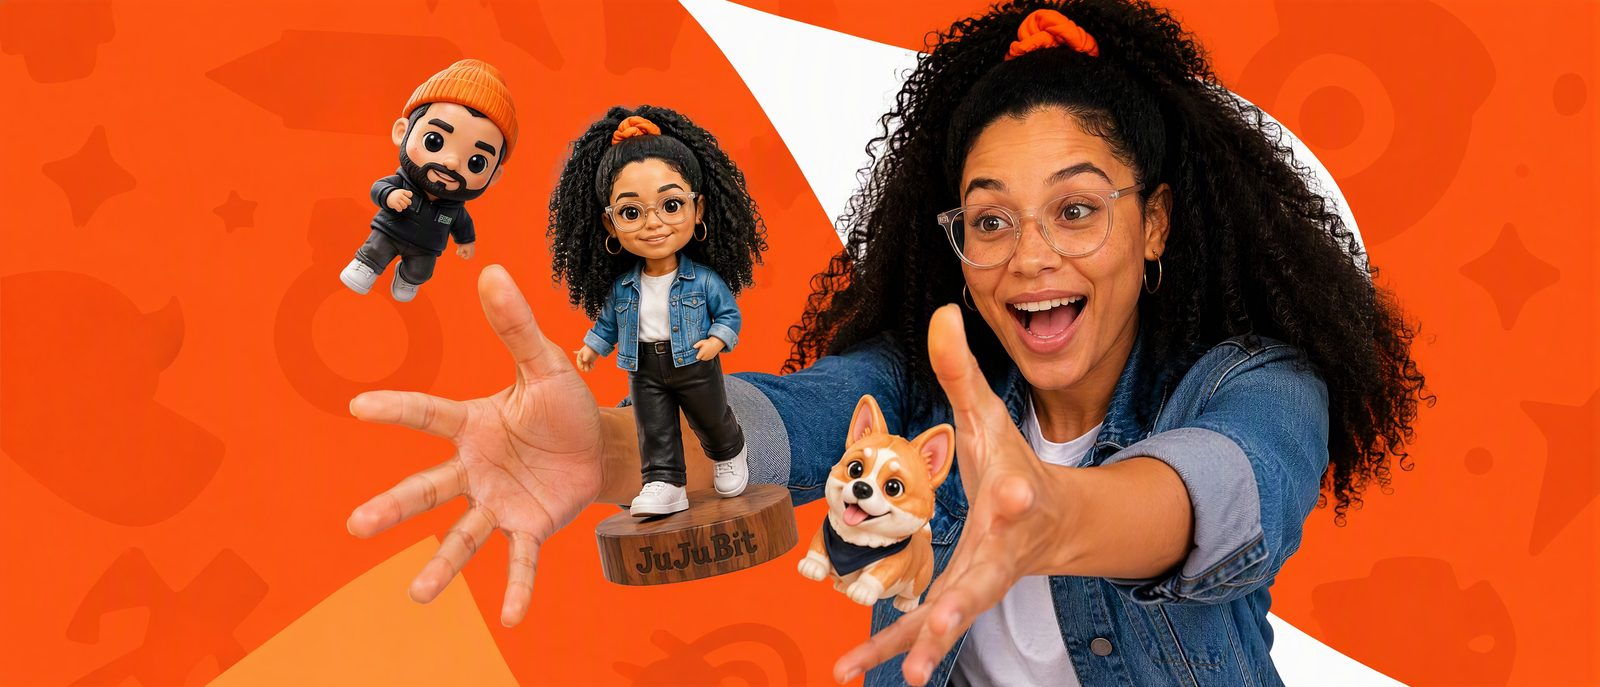
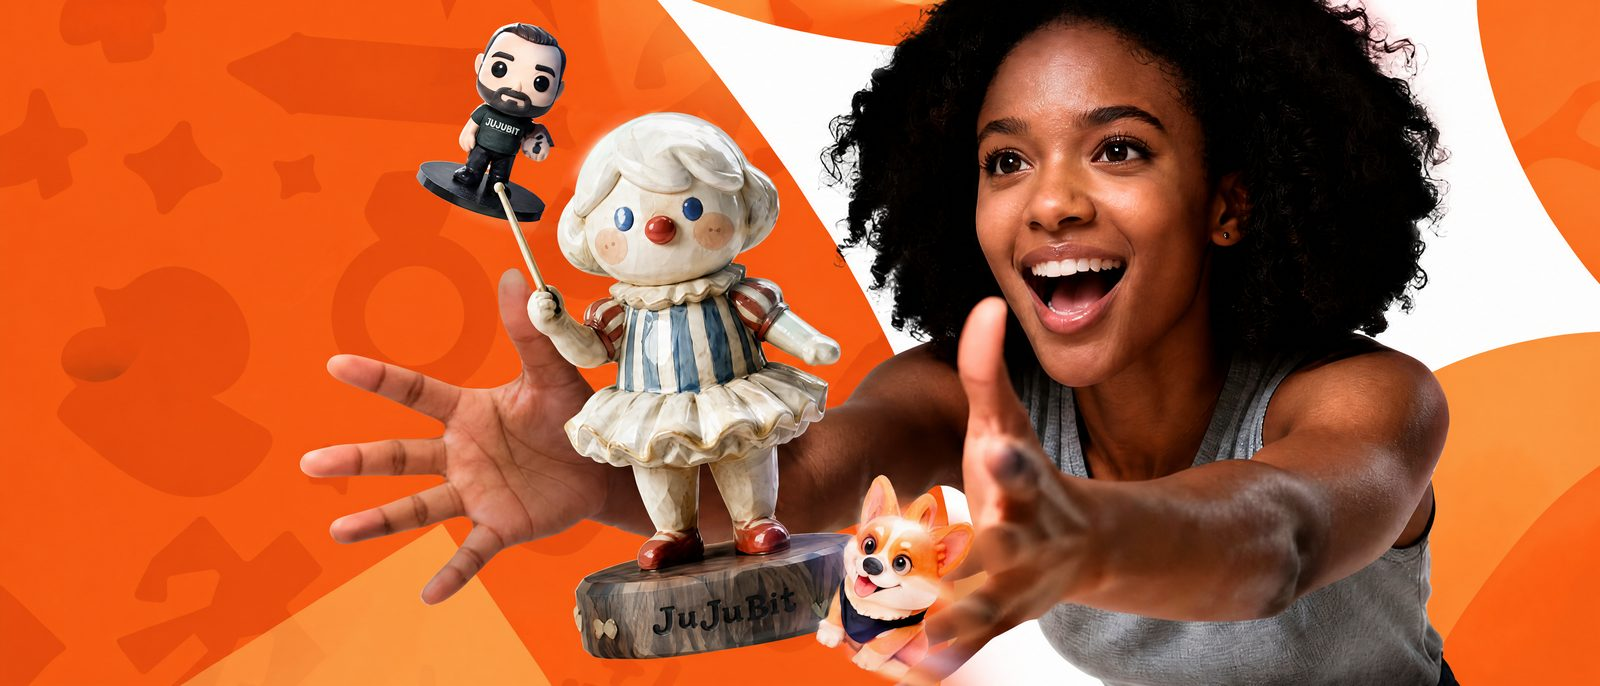
品牌人物：Maya 改用 Google Play feature graphic 里的女性（26 岁、自然大蓬发、灰背心、不戴眼镜），换设定照/三风格/高能量图，更新锚点与出图描述

diff --git a/playground.html b/playground.html
@@ -348,9 +348,9 @@
       <div class="people-grid" data-mod="people.cast">
         <div class="people-card"><img src="assets/people/maya-portrait.jpg" alt="Maya 设定照" loading="lazy"><div class="body">
           <h3>Maya · 主脸</h3>
-          <dl><dt>人设</dt><dd>32 岁，美国，非裔与拉丁裔混血。"什么都想做成小人"的创作者，朋友里的送礼高手。</dd>
-          <dt>锚点</dt><dd>大蓬卷发 + 透明圆框眼镜 + 橙色发圈；雀斑、金色小耳环</dd>
-          <dt>衣着</dt><dd>白 T + 牛仔外套</dd>
+          <dl><dt>人设</dt><dd>26 岁，美国，非裔美国人。"什么都想做成小人"的创作者，朋友里的送礼高手。长相沿用 Google Play feature graphic 里的女性。</dd>
+          <dt>锚点</dt><dd>圆形自然大蓬发（afro）+ 灰色背心；不戴眼镜，小耳钉</dd>
+          <dt>衣着</dt><dd>麻灰运动背心，生活感档可加一件敞开的浅色牛仔外套</dd>
           <dt>位置</dt><dd>首页 Hero、App Store 截图、教程、社媒、送礼和 mini-me 素材</dd></dl></div></div>
         <div class="people-card"><img src="assets/people/danny-portrait.jpg" alt="Danny 设定照" loading="lazy"><div class="body">
           <h3>Danny · 搭档</h3>
@@ -370,7 +370,7 @@
         <tr><td>和 JuJu</td><td colspan="2">JuJu 是品牌角色，不是他们的宠物或吉祥物道具。同框时 JuJu 以贴纸、公仔或屏幕里的形象出现，人和 JuJu 各自保持原样。</td></tr>
       </table></div>
       <div class="pg-mod" data-mod="people.anchors"><div class="pg-sub" style="margin-top:24px" data-edit="people.anchors#1">锚点要跨风格保留</div>
-      <p>同一个人做成大头潮玩、3D 动画、32mm 跑团微缩三种风格后，仍要一眼认出是谁。靠的就是锚点：眼镜和橙色配件任何风格都不能去掉。</p>
+      <p>同一个人做成大头潮玩、3D 动画、32mm 跑团微缩三种风格后，仍要一眼认出是谁。靠的就是锚点：Maya 的圆形大蓬发和灰背心、Danny 的眼镜和橙色毛线帽，任何风格都不能去掉。</p>
       <div class="people-styles">
         <img src="assets/people/maya-3-styles.jpg" alt="Maya 三种风格小人" loading="lazy">
         <img src="assets/people/danny-3-styles.jpg" alt="Danny 三种风格小人" loading="lazy">
@@ -378,7 +378,7 @@
       <div class="pg-mod" data-mod="people.energy"><div class="pg-sub" style="margin-top:24px" data-edit="people.energy#1">两档情绪：高能量和生活感</div>
       <p><b>高能量档</b>用在商店头图（Google Play feature graphic、App Store header）、广告首屏、活动海报：满版品牌橙背景，人物张开双手接住或高高举起小人，小人飞在空中，表情是惊喜、大笑、欢呼。这一档沿用线上 feature graphic 的构图，是用户第一眼看到的品牌印象。<b>生活感档</b>用在教程、App Store 截图后几屏、社媒日常、详情页：真实室内、暖光、会心一笑。两档人物锚点完全一样，不能换脸。</p>
       <div class="people-styles" style="grid-template-columns:1fr">
-        <img src="assets/people/maya-energy-wide.jpg" alt="Maya 高能量横版：伸手接住飞出来的小人" loading="lazy">
+        <img src="assets/people/maya-energy-wide.jpg" alt="Maya 高能量横版：伸手接住飞出来的小人（即线上 feature graphic 的 21:9 版）" loading="lazy">
       </div>
       <div class="people-styles">
         <img src="assets/people/maya-energy.jpg" alt="Maya 高能量竖版：跳起来举起自己的小人" loading="lazy">
@@ -387,12 +387,12 @@
       </div></div>
       <ul class="rules" data-mod="people.rules">
         <li data-edit="people.rules#1"><b>可以：</b>用在品牌位（首页 Hero、App Store 截图、广告、教程、社媒）；和 JuJu 同框；展示创作动作（拍照上传、挑风格、给小人摆姿势、放上跑团地图）；表情好奇、调皮、得意。</li>
-        <li data-edit="people.rules#2"><b>橙色：</b>只出现在一件配件（发圈、毛线帽）和品牌盒上，衣服用中性色，不穿整件橙色。</li>
+        <li data-edit="people.rules#2"><b>橙色：</b>人物身上只有 Danny 的毛线帽是橙色，Maya 不戴橙色配件；其余橙色放在背景和品牌盒上，衣服用中性色，不穿整件橙色。</li>
         <li data-edit="people.rules#3"><b>小人质感：</b>画面里的小人一律是 JuJuBit 的全彩定制小人，带 JuJuBit 木底座或品牌盒；不出现灰色素胚、金属或树脂原色兵棋模型（那是别家的产品）。生活感档按真实交付品拍：哑光漆面、颜色比渲染图暗一档、细部略粗，背景用真实桌面杂物，不比实物更完美。</li>
         <li data-edit="people.rules#4"><b>不可以：</b>用在评价、客户证言、"Real Figurines. Real People." 这类主张真实的位置——那里只用授权的真实客户；改动锚点；煽情落泪、模特化修图；把大头款标成 Funko / Pop。</li>
         <li data-edit="people.rules#5"><b>出图：</b>每次沿用下方英文固定描述，不改写。当前是 AI 设定图，用作选角和出图依据；正式实拍时按此设定找模特。</li>
       </ul>
-      <details class="snippet" data-mod="people.prompts" open><summary>出图固定描述（英文，逐字使用）</summary><pre>Maya: 32-year-old American woman of mixed Black and Latina heritage, big voluminous natural curls, light freckles across the nose, round clear-frame glasses, small gold hoop earrings, a bright vivid orange (#FF5A11) scrunchie in her hair, plain white tee and denim jacket.
+      <details class="snippet" data-mod="people.prompts" open><summary>出图固定描述（英文，逐字使用）</summary><pre>Maya: about 26-year-old Black American woman, warm deep-brown skin, a big round voluminous natural afro of tight dark curls, small stud earrings, no glasses, heather-grey athletic tank top (everyday shots may add an open light-wash denim jacket). Always pass the Google Play feature graphic (or assets/people/maya-portrait.jpg) as the face reference image.
 
 Danny: 37-year-old white American man, short brown beard, round tortoiseshell glasses, a bright vivid orange (#FF5A11) knit beanie, grey hoodie under an olive work jacket.</pre></details>
     </section>

diff --git a/playground.src.html b/playground.src.html
@@ -242,9 +242,9 @@
       <div class="people-grid" data-mod="people.cast">
         <div class="people-card"><img src="assets/people/maya-portrait.jpg" alt="Maya 设定照" loading="lazy"><div class="body">
           <h3>Maya · 主脸</h3>
-          <dl><dt>人设</dt><dd>32 岁，美国，非裔与拉丁裔混血。"什么都想做成小人"的创作者，朋友里的送礼高手。</dd>
-          <dt>锚点</dt><dd>大蓬卷发 + 透明圆框眼镜 + 橙色发圈；雀斑、金色小耳环</dd>
-          <dt>衣着</dt><dd>白 T + 牛仔外套</dd>
+          <dl><dt>人设</dt><dd>26 岁，美国，非裔美国人。"什么都想做成小人"的创作者，朋友里的送礼高手。长相沿用 Google Play feature graphic 里的女性。</dd>
+          <dt>锚点</dt><dd>圆形自然大蓬发（afro）+ 灰色背心；不戴眼镜，小耳钉</dd>
+          <dt>衣着</dt><dd>麻灰运动背心，生活感档可加一件敞开的浅色牛仔外套</dd>
           <dt>位置</dt><dd>首页 Hero、App Store 截图、教程、社媒、送礼和 mini-me 素材</dd></dl></div></div>
         <div class="people-card"><img src="assets/people/danny-portrait.jpg" alt="Danny 设定照" loading="lazy"><div class="body">
           <h3>Danny · 搭档</h3>
@@ -264,7 +264,7 @@
         <tr><td>和 JuJu</td><td colspan="2">JuJu 是品牌角色，不是他们的宠物或吉祥物道具。同框时 JuJu 以贴纸、公仔或屏幕里的形象出现，人和 JuJu 各自保持原样。</td></tr>
       </table></div>
       <div class="pg-mod" data-mod="people.anchors"><div class="pg-sub" style="margin-top:24px">锚点要跨风格保留</div>
-      <p>同一个人做成大头潮玩、3D 动画、32mm 跑团微缩三种风格后，仍要一眼认出是谁。靠的就是锚点：眼镜和橙色配件任何风格都不能去掉。</p>
+      <p>同一个人做成大头潮玩、3D 动画、32mm 跑团微缩三种风格后，仍要一眼认出是谁。靠的就是锚点：Maya 的圆形大蓬发和灰背心、Danny 的眼镜和橙色毛线帽，任何风格都不能去掉。</p>
       <div class="people-styles">
         <img src="assets/people/maya-3-styles.jpg" alt="Maya 三种风格小人" loading="lazy">
         <img src="assets/people/danny-3-styles.jpg" alt="Danny 三种风格小人" loading="lazy">
@@ -272,7 +272,7 @@
       <div class="pg-mod" data-mod="people.energy"><div class="pg-sub" style="margin-top:24px">两档情绪：高能量和生活感</div>
       <p><b>高能量档</b>用在商店头图（Google Play feature graphic、App Store header）、广告首屏、活动海报：满版品牌橙背景，人物张开双手接住或高高举起小人，小人飞在空中，表情是惊喜、大笑、欢呼。这一档沿用线上 feature graphic 的构图，是用户第一眼看到的品牌印象。<b>生活感档</b>用在教程、App Store 截图后几屏、社媒日常、详情页：真实室内、暖光、会心一笑。两档人物锚点完全一样，不能换脸。</p>
       <div class="people-styles" style="grid-template-columns:1fr">
-        <img src="assets/people/maya-energy-wide.jpg" alt="Maya 高能量横版：伸手接住飞出来的小人" loading="lazy">
+        <img src="assets/people/maya-energy-wide.jpg" alt="Maya 高能量横版：伸手接住飞出来的小人（即线上 feature graphic 的 21:9 版）" loading="lazy">
       </div>
       <div class="people-styles">
         <img src="assets/people/maya-energy.jpg" alt="Maya 高能量竖版：跳起来举起自己的小人" loading="lazy">
@@ -281,12 +281,12 @@
       </div></div>
       <ul class="rules" data-mod="people.rules">
         <li><b>可以：</b>用在品牌位（首页 Hero、App Store 截图、广告、教程、社媒）；和 JuJu 同框；展示创作动作（拍照上传、挑风格、给小人摆姿势、放上跑团地图）；表情好奇、调皮、得意。</li>
-        <li><b>橙色：</b>只出现在一件配件（发圈、毛线帽）和品牌盒上，衣服用中性色，不穿整件橙色。</li>
+        <li><b>橙色：</b>人物身上只有 Danny 的毛线帽是橙色，Maya 不戴橙色配件；其余橙色放在背景和品牌盒上，衣服用中性色，不穿整件橙色。</li>
         <li><b>小人质感：</b>画面里的小人一律是 JuJuBit 的全彩定制小人，带 JuJuBit 木底座或品牌盒；不出现灰色素胚、金属或树脂原色兵棋模型（那是别家的产品）。生活感档按真实交付品拍：哑光漆面、颜色比渲染图暗一档、细部略粗，背景用真实桌面杂物，不比实物更完美。</li>
         <li><b>不可以：</b>用在评价、客户证言、"Real Figurines. Real People." 这类主张真实的位置——那里只用授权的真实客户；改动锚点；煽情落泪、模特化修图；把大头款标成 Funko / Pop。</li>
         <li><b>出图：</b>每次沿用下方英文固定描述，不改写。当前是 AI 设定图，用作选角和出图依据；正式实拍时按此设定找模特。</li>
       </ul>
-      <details class="snippet" data-mod="people.prompts" open><summary>出图固定描述（英文，逐字使用）</summary><pre>Maya: 32-year-old American woman of mixed Black and Latina heritage, big voluminous natural curls, light freckles across the nose, round clear-frame glasses, small gold hoop earrings, a bright vivid orange (#FF5A11) scrunchie in her hair, plain white tee and denim jacket.
+      <details class="snippet" data-mod="people.prompts" open><summary>出图固定描述（英文，逐字使用）</summary><pre>Maya: about 26-year-old Black American woman, warm deep-brown skin, a big round voluminous natural afro of tight dark curls, small stud earrings, no glasses, heather-grey athletic tank top (everyday shots may add an open light-wash denim jacket). Always pass the Google Play feature graphic (or assets/people/maya-portrait.jpg) as the face reference image.
 
 Danny: 37-year-old white American man, short brown beard, round tortoiseshell glasses, a bright vivid orange (#FF5A11) knit beanie, grey hoodie under an olive work jacket.</pre></details>
     </section>

diff --git a/skill/jujubit-design-system/SKILL.md b/skill/jujubit-design-system/SKILL.md
@@ -49,7 +49,7 @@ Use the first that exists:
 - Product cards: no brand subtitle, no Quick view; an optional second image fades in on hover. Section titles are centered Bebas 64 (mobile 28) with a right-aligned View All. Grid gap is 12px.
 - Web vs App: `--jjb-app-*` tokens, `.jjb-app-btn`, and the sticker spec are App-only. On the website, template colors appear only inside template card images.
 - Label evidence truthfully: AI previews, product renders, and real product photos are different things. Prices in the playground are samples.
-- Brand people: when a page or asset needs a real-person image, use only the two spokespeople Maya and Danny (playground section 02, `assets/people/`), with the fixed English descriptions verbatim and their anchors kept (glasses + orange scrunchie/beanie). Orange appears on them only as that accessory and the box (an orange backdrop is fine). Two energy registers, same faces: high-energy (full-bleed orange backdrop, arms out catching or lifting flying figurines, surprised/laughing; for store headers, feature graphics, ad first frames) and everyday (real interiors, warm light, knowing smile; for tutorials, later screenshots, social). Every figurine shown must be a full-color JuJuBit custom figurine on a JuJuBit wooden base or box, never grey/unpainted/pewter wargaming minis. Never use them in reviews, testimonials, or "Real Figurines. Real People." — those need real, consented customers. Tone: curious, playful, proud of their creation; not tearful or model-glam.
+- Brand people: when a page or asset needs a real-person image, use only the two spokespeople Maya and Danny (playground section 02, `assets/people/`), with the fixed English descriptions verbatim and their anchors kept (Maya: round natural afro + heather-grey tank, no glasses, face referenced from the Google Play feature graphic; Danny: glasses + orange beanie). On the people, orange appears only as Danny's beanie; otherwise orange goes on the backdrop and the box. Two energy registers, same faces: high-energy (full-bleed orange backdrop, arms out catching or lifting flying figurines, surprised/laughing; for store headers, feature graphics, ad first frames) and everyday (real interiors, warm light, knowing smile; for tutorials, later screenshots, social). Every figurine shown must be a full-color JuJuBit custom figurine on a JuJuBit wooden base or box, never grey/unpainted/pewter wargaming minis. Never use them in reviews, testimonials, or "Real Figurines. Real People." — those need real, consented customers. Tone: curious, playful, proud of their creation; not tearful or model-glam.
 - On the web use the SVG/PNG wordmark, not the 1.1MB `juju-mark.svg`. Motion files in `assets/motion/` are 720p previews.
 
 ## 处理设计页评论

diff --git a/assets/README.md b/assets/README.md
@@ -39,7 +39,7 @@ Logo 源文件 `.ai`不进仓库。需要时找设计团队要。
 
 | 文件 | 用途 | 来源 |
 |---|---|---|
-| `maya-portrait.jpg` · `danny-portrait.jpg` | 两位代言人的设定照 | AI 设定图（2026-10-14），正式实拍前作选角依据 |
+| `maya-portrait.jpg` · `danny-portrait.jpg` | 两位代言人的设定照 | AI 设定图（2026-10-14）；Maya 于 2026-10-15 改用 Google Play feature graphic 里的女性做脸部参考 |
 | `maya-3-styles.jpg` · `danny-3-styles.jpg` | 锚点跨风格示例：大头潮玩、3D 动画、跑团微缩 | 同上 |
 
 使用规则见设计页第 02 节「品牌人物」。
